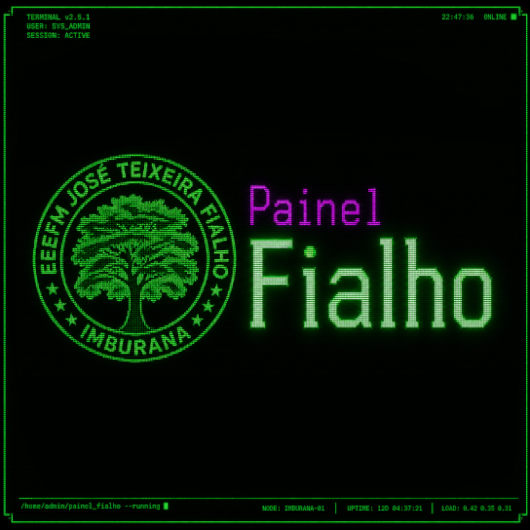
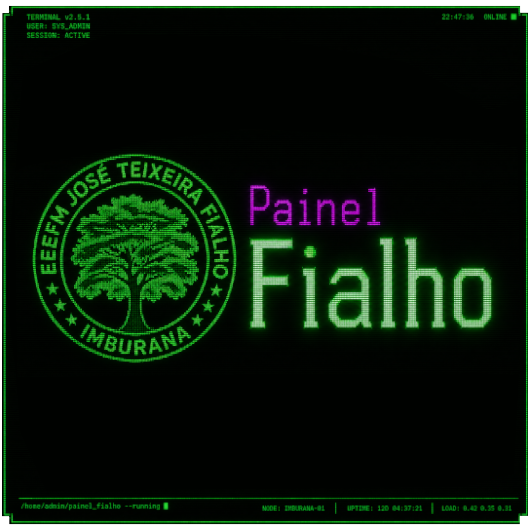
2.0

Changed region(s): [[0.0, 0.0, 1.0, 1.0]]

diff --git a/style.css b/style.css
@@ -81,7 +81,7 @@ body::after {
 
 /* Logo Escola: REMOVIDO TOTALMENTE O BLUR ATRÁS DA LOGO */
 .side-branding {
-    flex: 0 0 280px; 
+    flex: 0 0 320px; 
     display: flex;
     justify-content: center;
     align-items: center;
